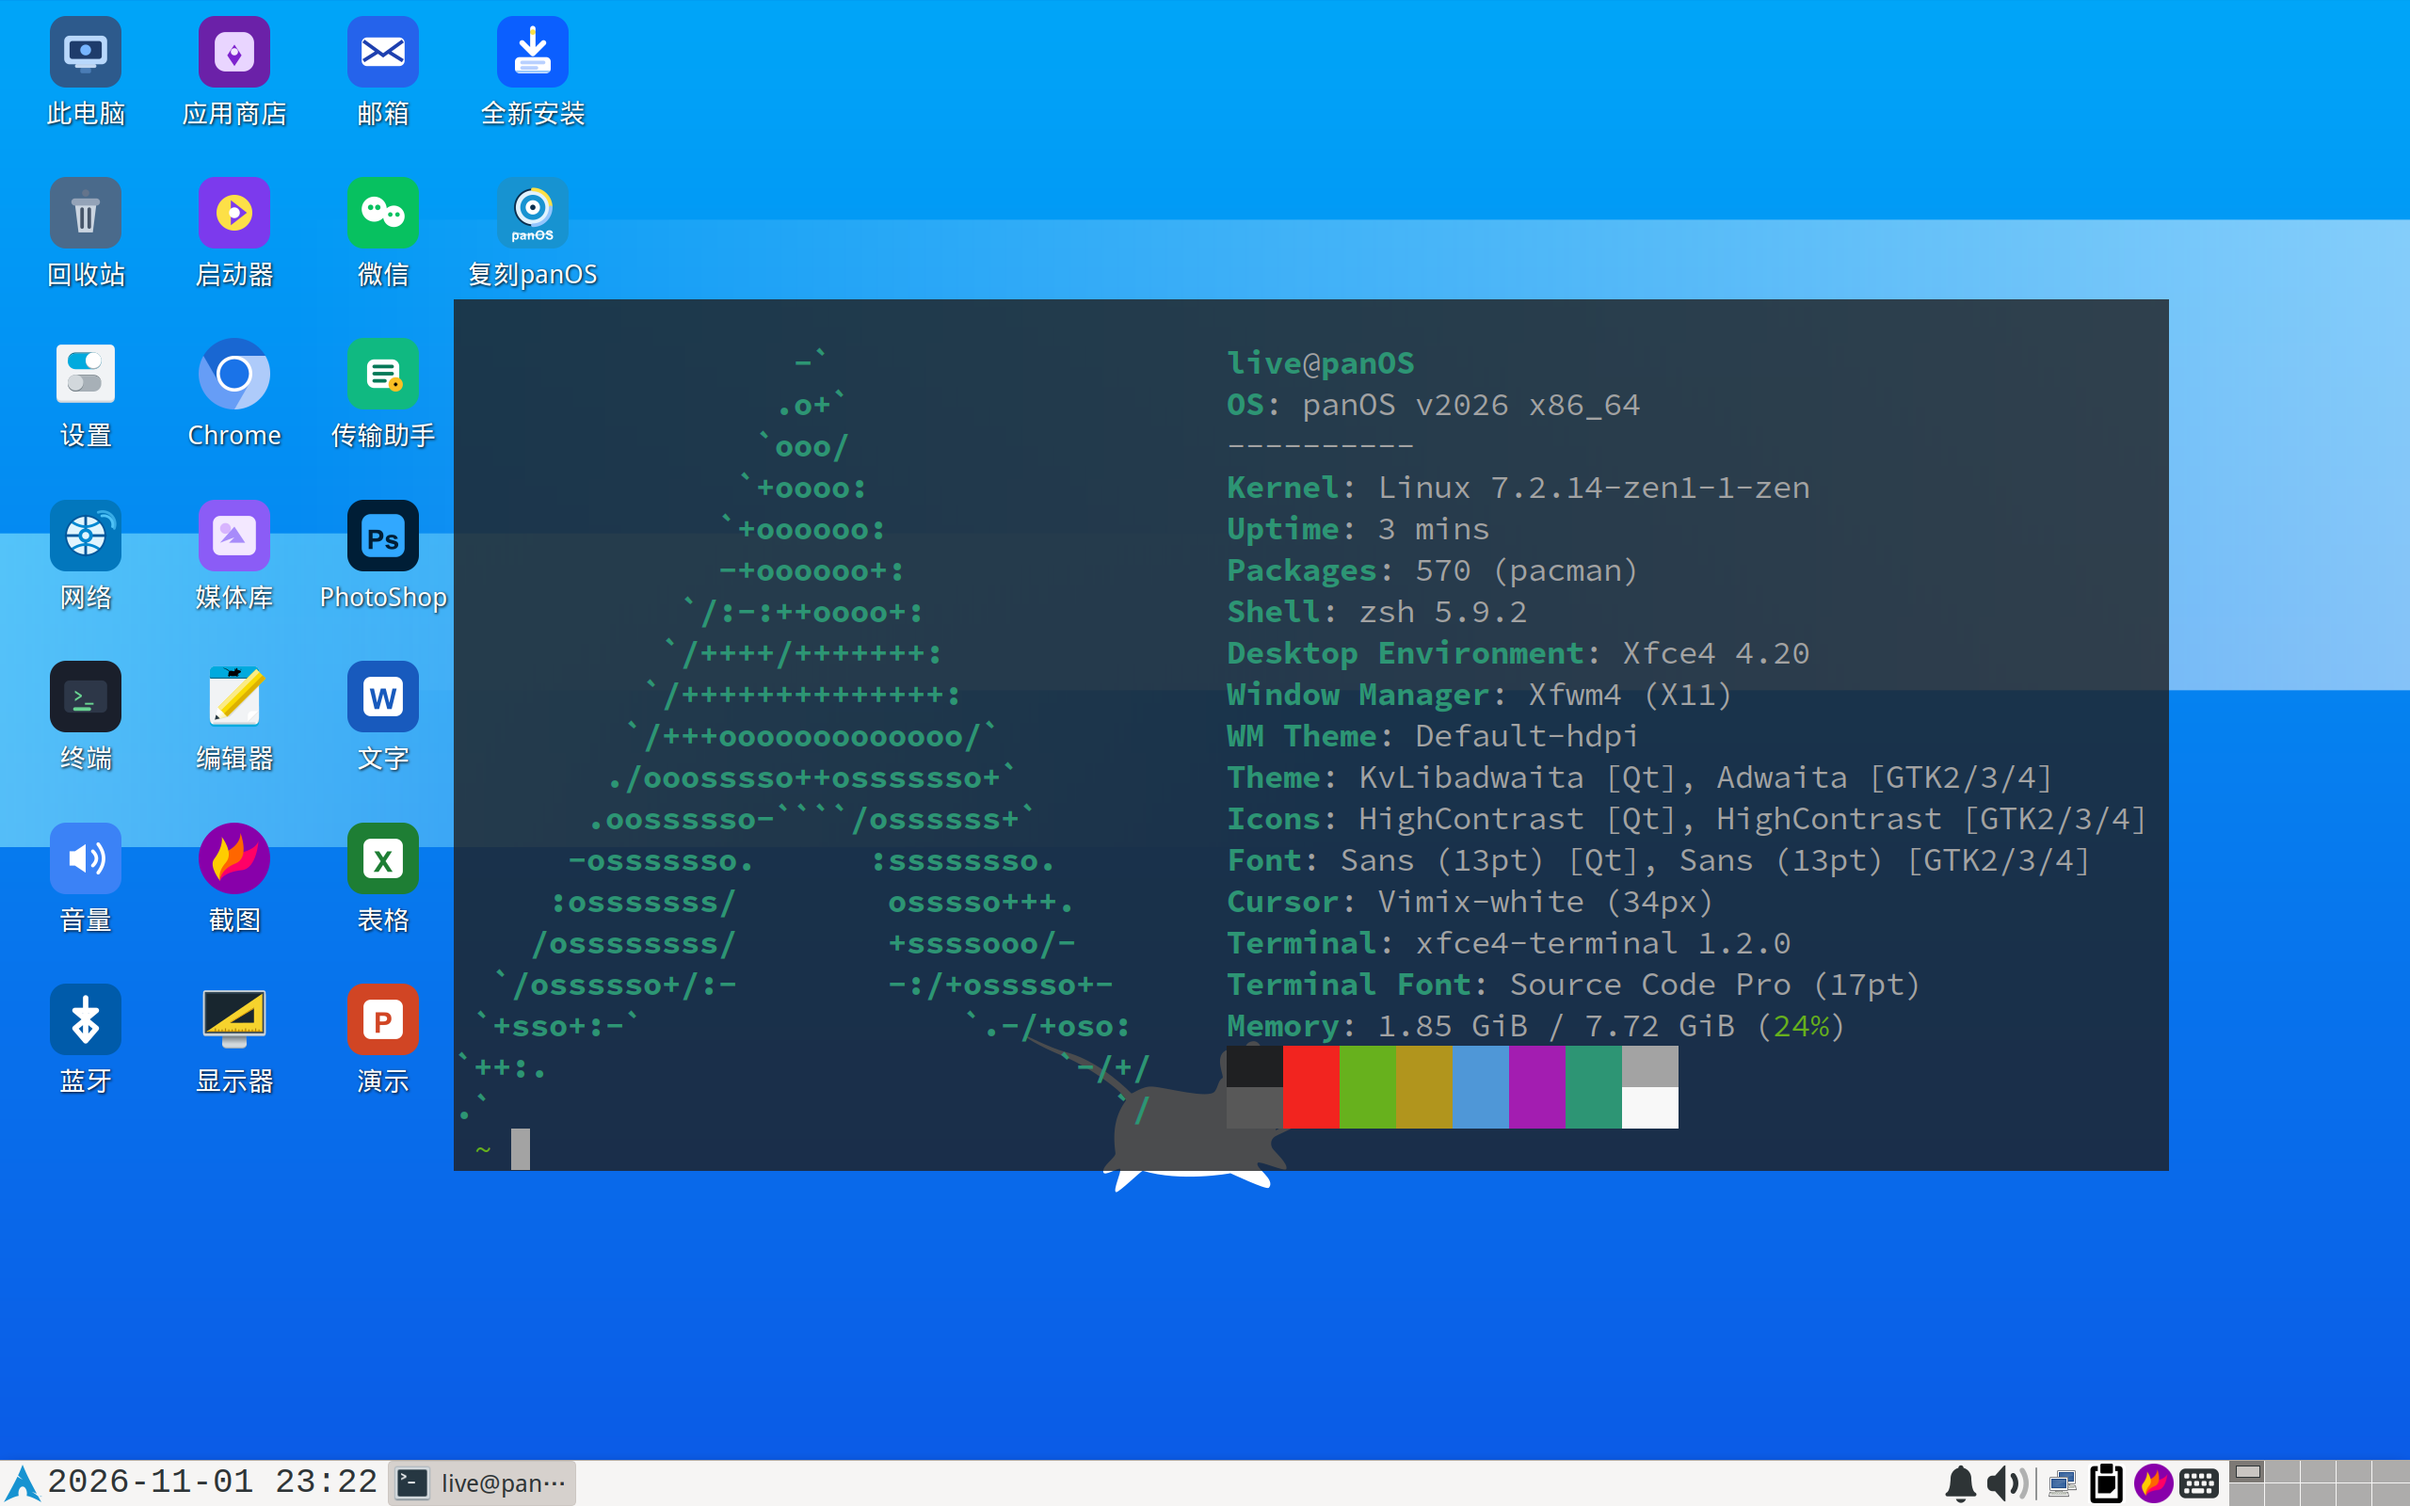
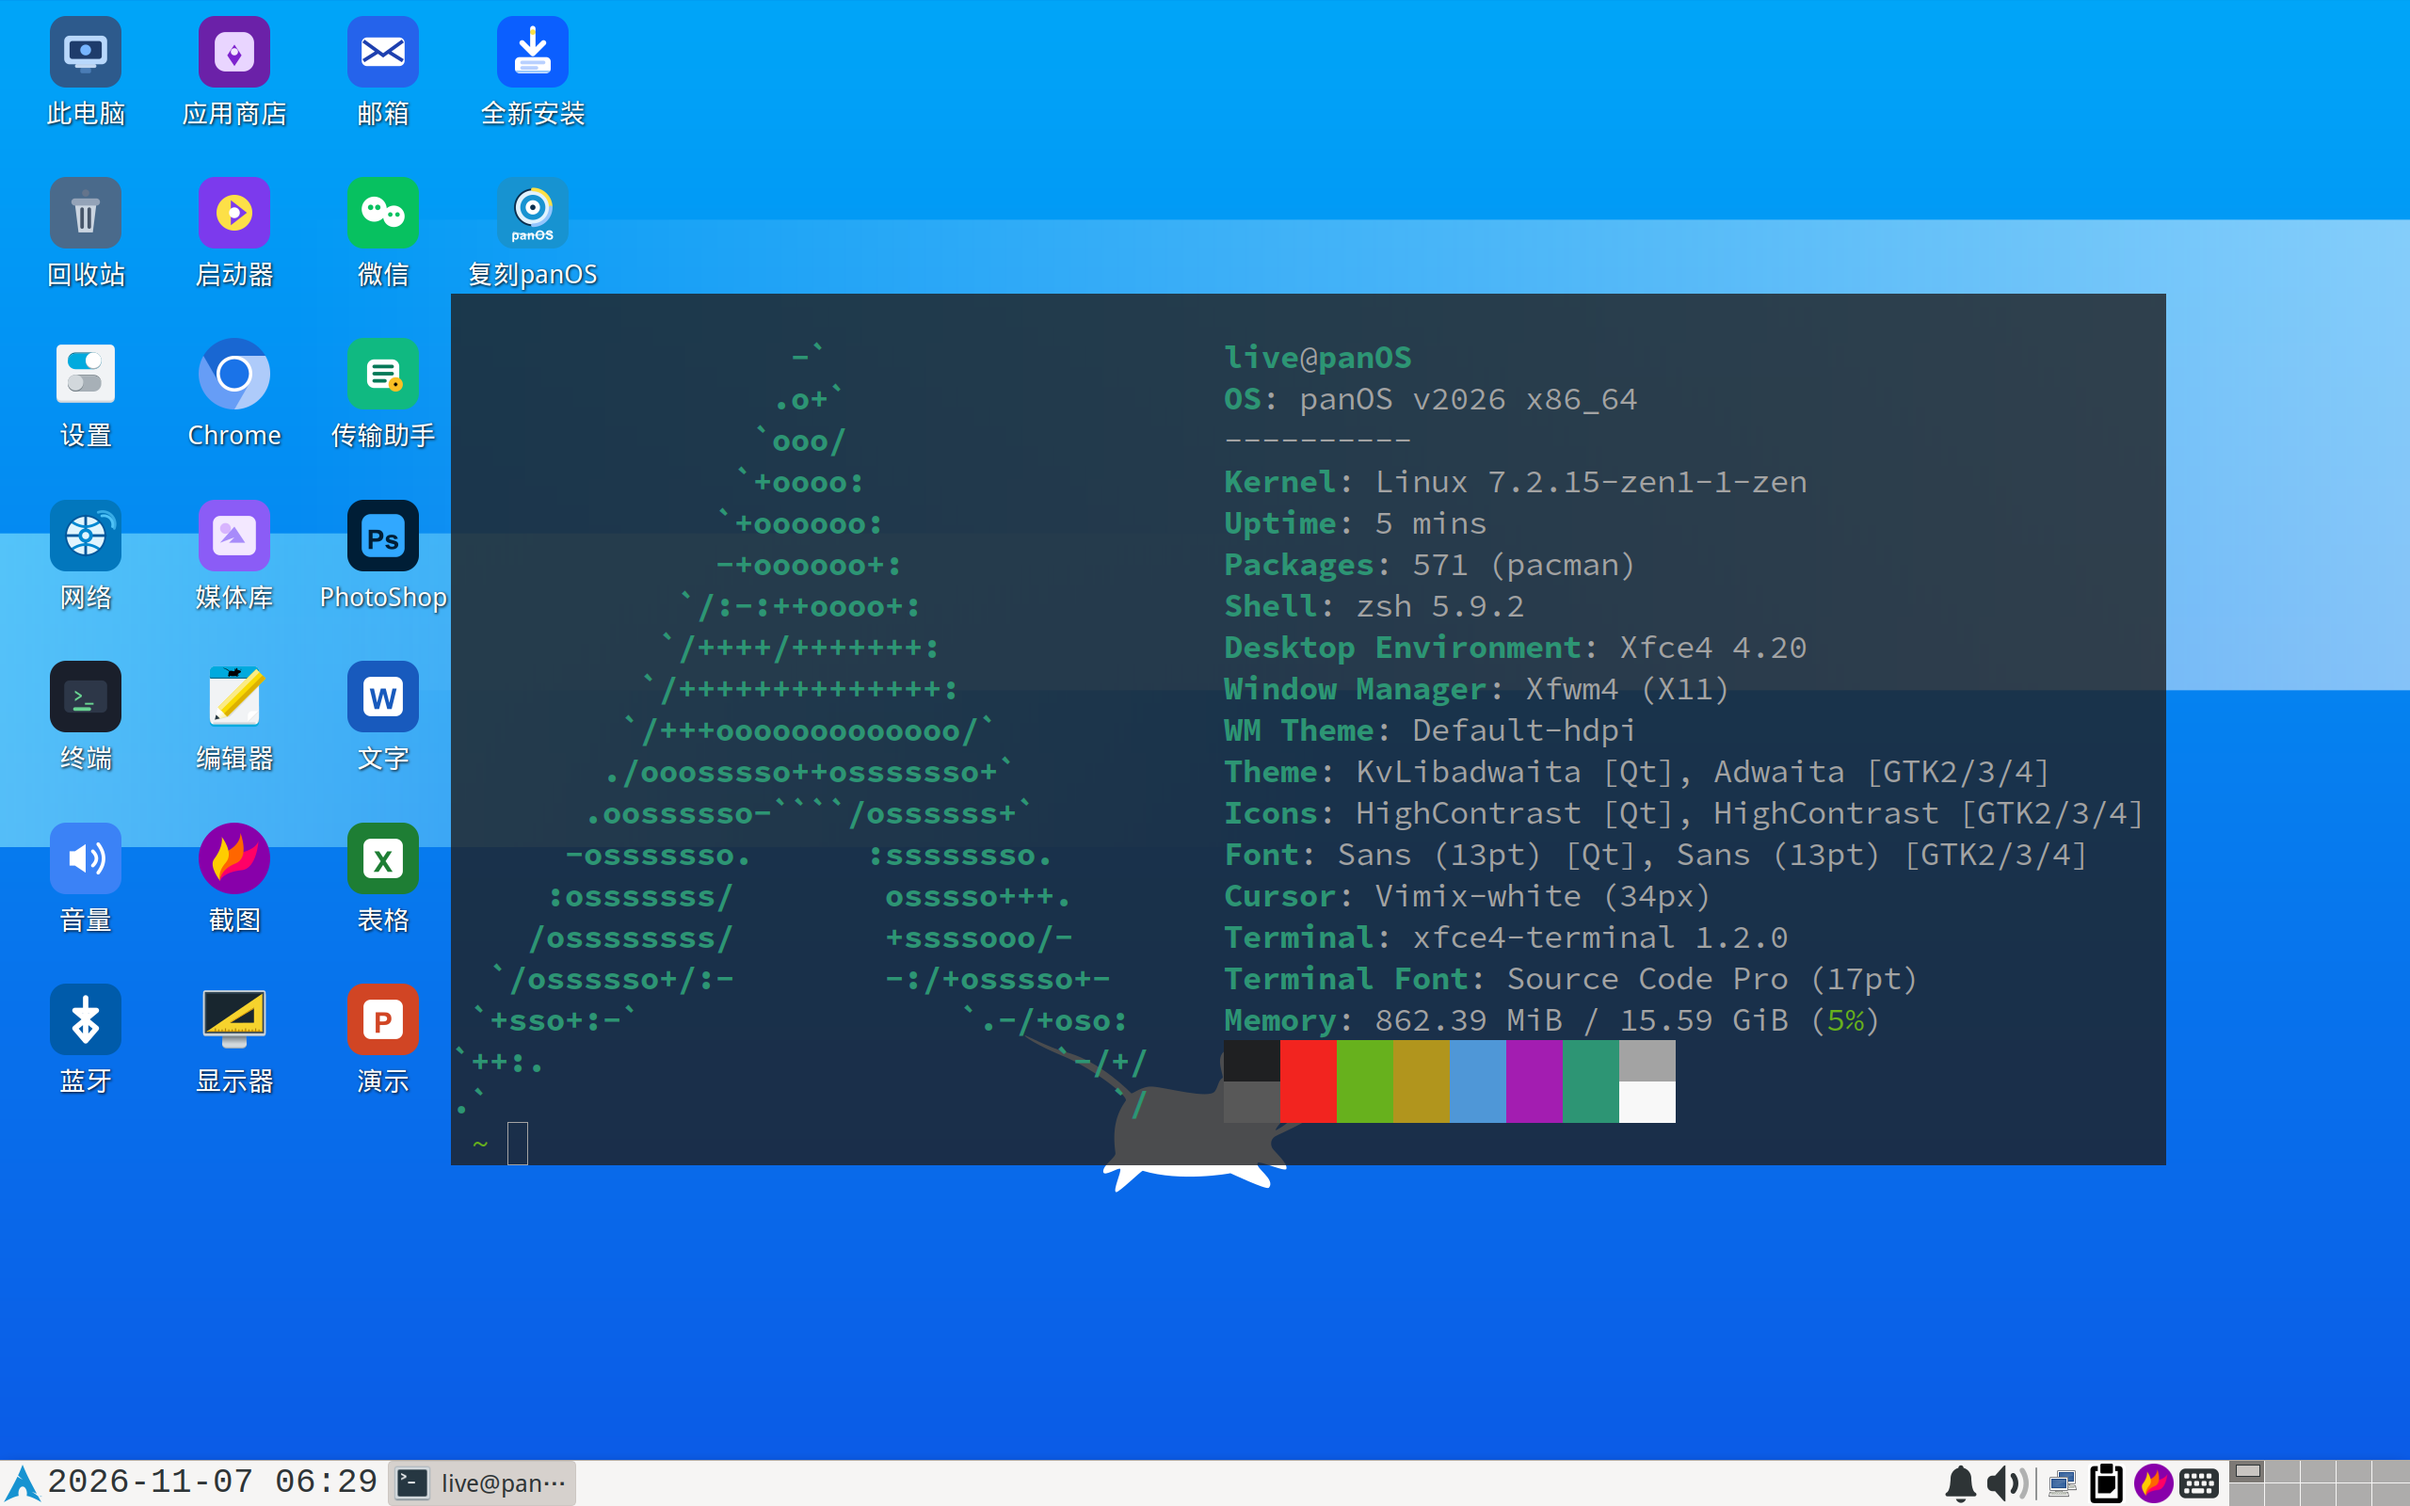
docs: Update README

diff --git a/README.md b/README.md
@@ -6,6 +6,8 @@ English | [简体中文]
 
 ![panOS_v2026](panOS_v2026.png)
 
+> This project is essentially production-ready. The ISO will only be updated from time to time to keep base components current.
+
 ## Features
 
 - About 1GB — smaller than Arch's official TTY ArchISO.
@@ -54,7 +56,7 @@ English | [简体中文]
 
 ## v2027 Plans
 
-- Move the base to Debian Sid.
+- ~~Move the base to Debian Sid.~~
 - Plugin support, so you can sideload more apps without growing the ISO.
 - More built-in maintenance tools, covering more scenarios.
 - Full switch to Wayland.

diff --git a/README-zh_CN.md b/README-zh_CN.md
@@ -1,10 +1,12 @@
-# PanOS v2026
+# panOS v2026
 
 [English] | 简体中文
 
 [English]: README.md
 
 ![panOS_v2026](panOS_v2026.png)
+
+> 本项目已基本达到生产可用状态，后续仅不定期更新 ISO，以保持基础组件版本更新。
 
 ## 特性
 
@@ -54,7 +56,7 @@
 
 ## v2027 计划
 
-- 底层使用 Debian Sid。
+- ~~底层使用 Debian Sid。~~
 - 支持插件，可在不增加 ISO 体积的前提下侧载更多应用。
 - 内置更多维护工具，尽量覆盖更多场景。
 - 全面转向 Wayland。
